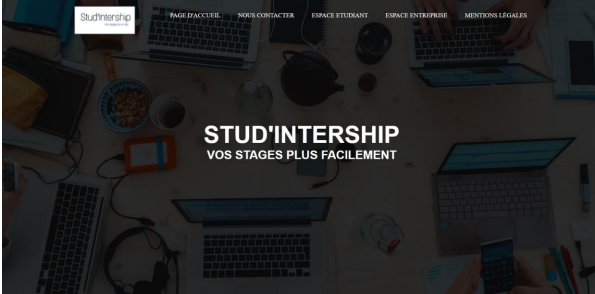
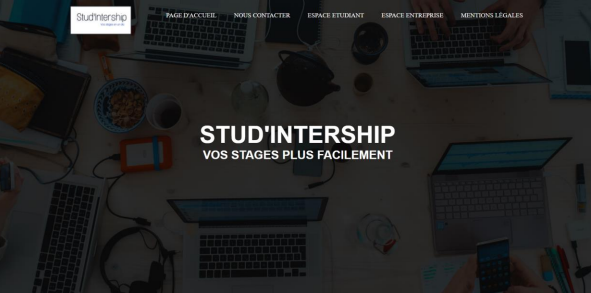
Ajout photo slider

diff --git a/css/contact.css b/css/contact.css
@@ -16,6 +16,7 @@ body{
     display: flex;
     justify-content: center;
     align-items: center;
+    
 }
 
 .contact-info{
@@ -28,6 +29,7 @@ body{
     border-radius: 10%;
     margin-right: 20px;
     padding: 30px 20px 30px 30px;
+    border: solid 1px black;
 }
 
 .contact-info i{
@@ -36,6 +38,9 @@ body{
 
 }
 
+a{
+    color: whitesmoke;
+}
 a:visited{
     color: whitesmoke;
 }
@@ -43,6 +48,7 @@ a:visited{
 .contact-form{
     max-width: 670px;
     margin-right: 40px;
+    border: solid 1px black;
 }
 
 .contact-info, .contact-form{
@@ -97,7 +103,7 @@ a:visited{
     width: 120px;
     height: 40px;
     font-size: 15px;
-    font-weight: 600;
+    font-weight: 500;
     text-transform: uppercase;
     letter-spacing: 2px;
     border-radius: 5px;

diff --git a/css/menu.css b/css/menu.css
@@ -27,7 +27,7 @@ ul{
     display: flex;
     background-color:#1f2425;
     justify-content: space-around;
-    padding: 2rem 0;
+    padding: 1.5rem 0;
     align-items: center;
 }
 
@@ -65,7 +65,7 @@ ul{
     position: relative;
     padding: 10px;
     color: rgb(218, 218, 218);
-    font-size: 1.2em;
+    font-size: 1.1em;
     font-weight: 500;
     border-radius: 5px;
 }

diff --git a/css/accueil.css b/css/accueil.css
@@ -5,6 +5,7 @@
     text-align: center;
     font-family: 'Poppins', sans-serif;
     color : whitesmoke;
+    font-weight: 300;
 }
 
 .button{

diff --git a/php/portfolio.php b/php/portfolio.php
@@ -21,7 +21,9 @@
                 <h2>Stud'Intership</h2>
                 <div class="container">
                     <div class="slider">
-                        <img class="active img-diapo1" src="../img/site/stConnexion.png" >
+                        <img class="active img-diapo1" src="../img/site/stAccueil.png" >
+                        <img src="../img/site/stInscripEntre.png" class="img-diapo1">
+                        <img class="img-diapo1" src="../img/site/stConnexion.png" >
                         <img src="../img/site/stContact.png" class="img-diapo1">
                     </div>
                     <div class="cont-btn">
@@ -46,9 +48,9 @@
                 <h2>Domaine Philippon Frères</h2>
                 <div class="container">
                     <div class="slider">
-                        
-                        <img src="../img/site/abContact.png" class="active img-diapo2" >
-                        <img src="../img/site/agAccueil.png" class="img-diapo2">
+                        <img src="../img/site/dpAccueil.png" class="active img-diapo2">
+                        <img src="../img/site/dpDomaine.png" class="img-diapo2" >
+                        <img src="../img/site/dpContact.png" class="img-diapo2">
                     </div>
                     <div class="cont-btn">
                         <div class="btn-nav left2">←</div>
@@ -57,7 +59,7 @@
                 </div>
                 <div class="text">
                     <br>
-                    <p>Site web pour un domaine viticole permettant de présenter les produits et de les réserver. Projet réalisé seule.</p>
+                    <p>Site web pour un domaine viticole permettant de présenter les produits et de les réserver (Projet en cours). Projet réalisé seule.</p>
                     <br>
                     <h5>Technologies : </h5>
                     <div class="logo">
@@ -73,10 +75,9 @@
                 <h2>AGRRR'OBRANCHES</h2>
                 <div class="container">
                     <div class="slider">
-                        <img class="active img-diapo3" src="../img/site/stConnexion.png" >
-                        <img src="../img/site/stContact.png" class="img-diapo3">
-                        <img src="../img/site/abContact.png" class="img-diapo3" >
-                        <img src="../img/site/agAccueil.png" class="img-diapo3">
+                        <img src="../img/site/agAccueil.png" class="active img-diapo3">
+                        <img src="../img/site/agTarif.png" class="img-diapo3">
+                        <img src="../img/site/agContact.png" class="img-diapo3">
                     </div>
                     <div class="cont-btn">
                         <div class="btn-nav left3">←</div>
@@ -99,10 +100,8 @@
                 <h2>Portfolio</h2>
                 <div class="container">
                     <div class="slider">
-                        <img class="active img-diapo4" src="../img/site/stConnexion.png" >
-                        <img src="../img/site/stContact.png" class="img-diapo4">
-                        <img src="../img/site/abContact.png" class="img-diapo4" >
-                        <img src="../img/site/agAccueil.png" class="img-diapo4">
+                        <img class="active img-diapo4" src="../img/site/ptAccueil.png" >
+                        <img src="../img/site/ptApropos.png" class="img-diapo4">
                     </div>
                     <div class="cont-btn">
                         <div class="btn-nav left4">←</div>
